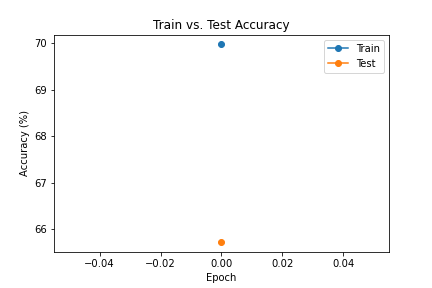
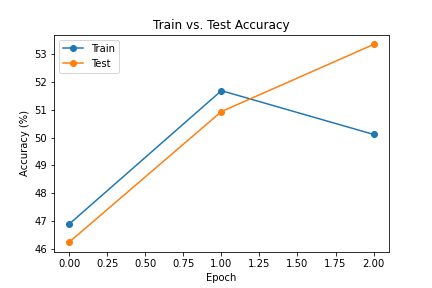
TODO: test different hyperparams!

diff --git a/Project 2/code/nn_pytorch.py b/Project 2/code/nn_pytorch.py
@@ -6,10 +6,10 @@ date: 2022-11-08
 """
 
 #-----------Hyperparameters-----------
-use_normalize = False
+use_normalize = True
 pic_folder_path = 'S:/studium/data_for_nns/mkfold/fold1'
-learning_rate = 0.01
-batch_size = 15
+learning_rate = 0.1
+batch_size = 20
 num_epochs = 3
 num_classes = 2
 num_channels = 3
@@ -157,11 +157,11 @@ def get_model(model_type, load_trained_model, reset_classifier_with_custom_layer
     model = model.to(device)
     print("Done.")
     return model
-model = get_model(model_type='resnet50', load_trained_model=False, reset_classifier_with_custom_layers=True, num_classes=num_classes, pretrained=True, device='cuda', input_model_path=None, input_model_name=None)
+model = get_model(model_type='resnet50', load_trained_model=False, reset_classifier_with_custom_layers=True, num_classes=num_classes, pretrained=pretrained, device=device, input_model_path=None, input_model_name=None)
 
 criterion = nn.CrossEntropyLoss()
 # SGD optimizer with momentum could lead faster to good results, but Adam is more stable
-optimizer = optim.Adam(model.parameters(), lr=learning_rate)
+optimizer = optim.Adamax(model.parameters(), lr=learning_rate)
 exp_lr_scheduler = lr_scheduler.StepLR(optimizer, step_size=5, gamma=0.1)
 
 train_nn(model, dataloaders, dataset_sizes, criterion, optimizer, exp_lr_scheduler, output_model_path, output_model_name, num_epochs=num_epochs)
